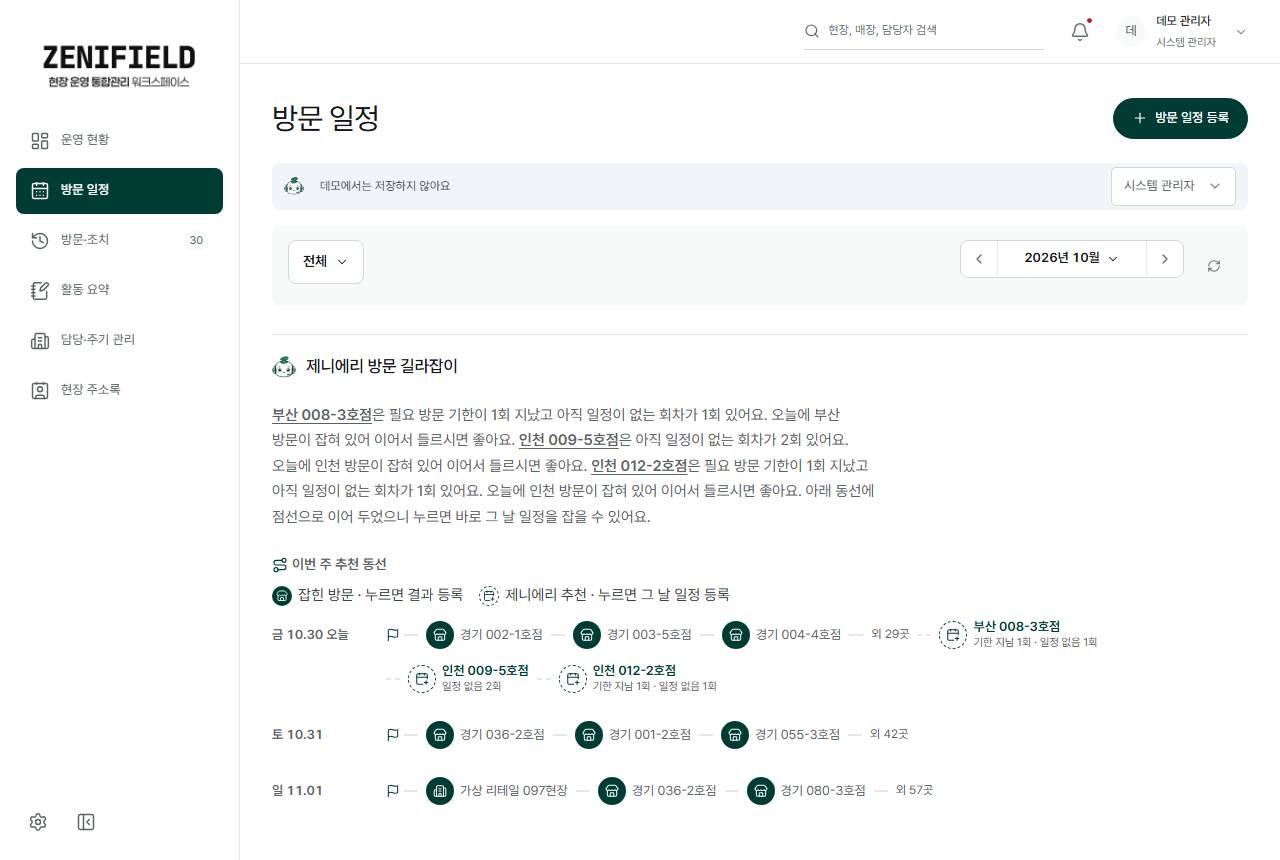
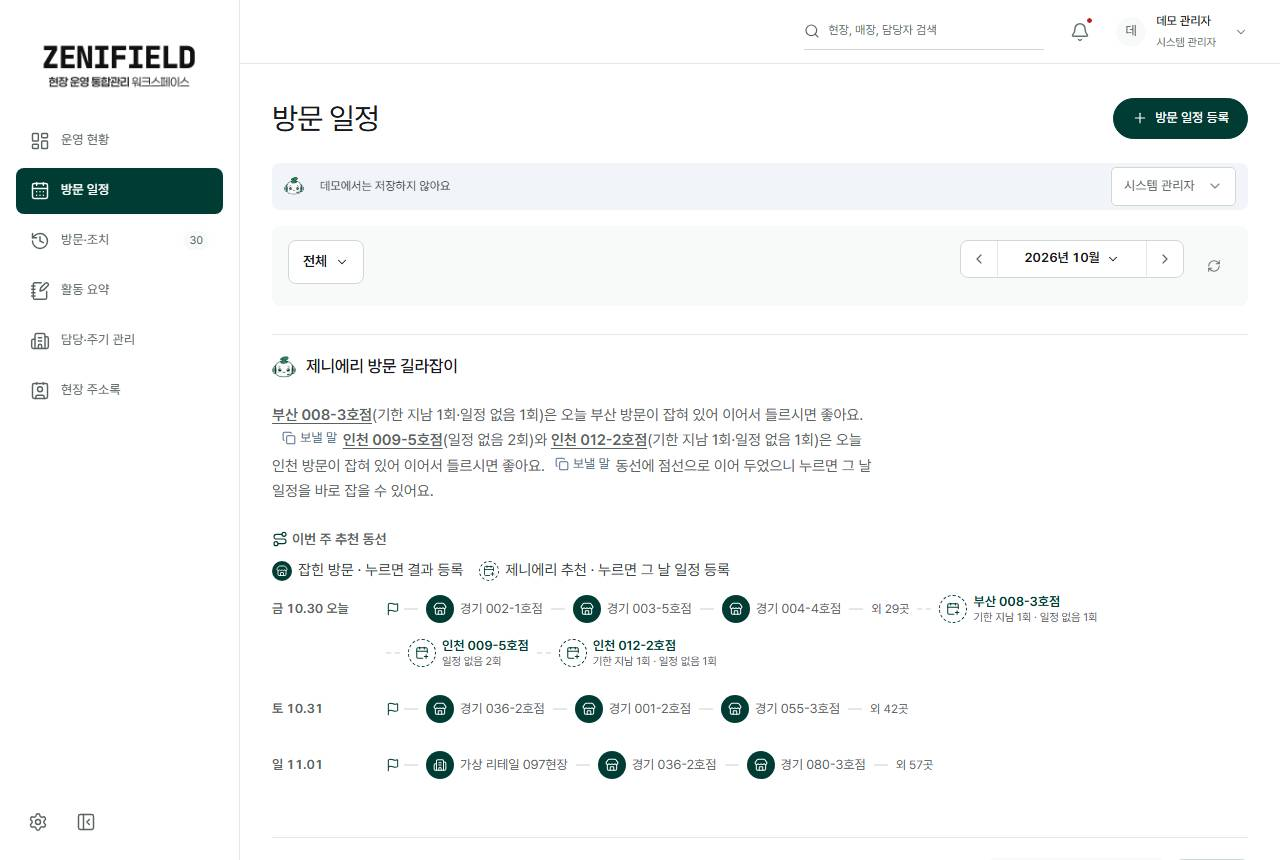
방문 길라잡이 추천 이유를 같은 날끼리 묶고, 담당자에게 보낼 말 복사 추가

diff --git a/app/platform/page-guide.tsx b/app/platform/page-guide.tsx
@@ -39,13 +39,15 @@ export function ScheduleGuide({c}:{c:Context}){
   const att=attentionOf(targetFacts(c.scope,c.visits,c.actions,c.allMetrics.slots,c.now).values()).filter(x=>!x.upcoming&&(x.delayed.length||x.unplanned.length)).slice(0,3);
   const add=att.map(x=>{const t=x.target,same=byDay.find(d=>t.region&&d.regions.has(t.region)),empty=byDay.find(d=>!d.stops.length),day=same||empty||byDay[0];
    const fact=[x.delayed.length&&`필요 방문 기한이 ${x.delayed.length}회 지났`,x.unplanned.length&&`아직 일정이 없는 회차가 ${x.unplanned.length}회 있`].filter(Boolean).join('고 ')+'어요',day0=day.d===c.now?'오늘':day.label;
-   const when=same?`${day0}에 ${t.region} 방문이 잡혀 있어 이어서 들르시면 좋아요`:empty?`${day0}${eul(day0)==='을'?'이':'가'} 비어 있어 넣기 좋아요`:`가장 가까운 ${day0}에 넣어 보시면 좋아요`;
-   return {x,t,day,fact,when,why:same?`${t.region} 방문과 함께`:empty?'빈 날':'가까운 날'}});
-  return {byDay:byDay.filter(d=>d.stops.length||add.some(a=>a.day.d===d.d)),add}},[c.visits,c.actions,c.scope,c.allMetrics,c.now]);
+   const when=same?`${day0==='오늘'?day0:day0+'에'} ${t.region} 방문이 잡혀 있어 이어서 들르시면 좋아요`:empty?`${day0}${eul(day0)==='을'?'이':'가'} 비어 있어 넣기 좋아요`:`가장 가까운 ${day0==='오늘'?'오늘':day0+'에'} 넣어 보시면 좋아요`;
+   const short=[x.delayed.length&&`기한 지남 ${x.delayed.length}회`,x.unplanned.length&&`일정 없음 ${x.unplanned.length}회`].filter(Boolean).join('·');
+   return {x,t,day,fact,short,when,why:same?`${t.region} 방문과 함께`:empty?'빈 날':'가까운 날'}});
+  const groups=[...add.reduce((m,a)=>m.set(a.when,[...(m.get(a.when)||[]),a]),new Map<string,typeof add>()).entries()];
+  return {byDay:byDay.filter(d=>d.stops.length||add.some(a=>a.day.d===d.d)),add,groups}},[c.visits,c.actions,c.scope,c.allMetrics,c.now]);
  return <section className="panel ai-brief action-brief route-guide" aria-label="제니에리 방문 길라잡이">
   <div className="panel-heading"><div><h2><AiMark/>제니에리 방문 길라잡이</h2></div></div>
   <div className="chart-body"><div className="ai-brief-out">
-   {g.add.length>0&&<p className="route-why">{g.add.map(({t,fact,when},i)=><Fragment key={t.id}>{i>0&&' '}<button type="button" className="zf-ent-link" onClick={()=>c.showTarget(t.id)}>{t.name}</button>{eul(t.name)==='을'?'은':'는'} {fact}. {when}.</Fragment>)} 아래 동선에 점선으로 이어 두었으니 누르면 바로 그 날 일정을 잡을 수 있어요.</p>}
+   {g.groups.length>0&&<p className="route-why">{g.groups.map(([when,items],gi)=>{const last=items[items.length-1].t.name,msg=items.map(({t,fact,day})=>{const o=t.managerIds[0];return (o?honor(c,o)+', ':'')+t.name+(eul(t.name)==='을'?'은 ':'는 ')+fact+'. '+(day.d===c.now?'오늘':day.label+'에')+' 일정을 넣어 주시면 좋아요.'}).join('\n');return <Fragment key={when}>{gi>0&&' '}{items.map(({t,short},i)=><Fragment key={t.id}>{i>0&&(i===items.length-1?'와 ':', ')}<button type="button" className="zf-ent-link" onClick={()=>c.showTarget(t.id)}>{t.name}</button>({short})</Fragment>)}{eul(last)==='을'?'은':'는'} {when}.{!self&&<CopyButton label={'담당자에게 보낼 말 복사: '+items.map(x=>x.t.name).join(', ')} text={msg} visible="보낼 말"/>}</Fragment>})} 동선에 점선으로 이어 두었으니 누르면 그 날 일정을 바로 잡을 수 있어요.</p>}
    <section><h3><Route size={16} aria-hidden/>이번 주 추천 동선</h3><p className="route-legend"><span><i aria-hidden><Store size={12}/></i>잡힌 방문 · 누르면 결과 등록</span><span><i className="add" aria-hidden><CalendarPlus size={12}/></i>제니에리 추천 · 누르면 그 날 일정 등록</span></p>
     {g.byDay.length?<ol className="route-map">{g.byDay.map(d=>{const adds=g.add.filter(a=>a.day.d===d.d);return <li key={d.d}><b>{d.label}</b><ol className="route-line"><li className="start" aria-hidden><Flag size={14}/></li>{d.stops.slice(0,3).map((st,i)=><li key={st.name}><button type="button" title={st.name+' 방문 결과 등록'} aria-label={d.label+' '+(i+1)+'번째 '+st.name+' 방문 결과 등록'} onClick={()=>c.open('visit',st.v,{result:true})}><i aria-hidden>{st.store?<Store size={14}/>:<Building2 size={14}/>}</i><span>{st.name}</span></button></li>)}{d.stops.length>3&&<li className="more"><span>외 {d.stops.length-3}곳</span></li>}{adds.map(({x,t,why})=>{const need=[x.delayed.length&&`기한 지남 ${x.delayed.length}회`,x.unplanned.length&&`일정 없음 ${x.unplanned.length}회`].filter(Boolean).join(' · ');return <li key={t.id} className="add"><button type="button" title={`${t.name} · ${need} · ${why}`} aria-label={`제니에리 추천 ${t.name}, ${need}, ${d.label} 일정 등록`} onClick={()=>c.open('visit',undefined,{targetType:t.type,siteId:t.siteId,storeId:t.storeId||undefined,date:d.d})}><i aria-hidden><CalendarPlus size={14}/></i><span>{t.name}<small>{need}</small></span></button></li>})}</ol></li>})}</ol>:<p>이번 주 달력에 남은 방문이 없어요. 방문 일정 등록에서 먼저 가 보면 좋은 곳을 보여 드릴게요.</p>}</section>
   </div></div>

diff --git a/app/platform/styles.css b/app/platform/styles.css
@@ -1038,3 +1038,4 @@
 .route-line>li.add::before{background:none;border-top:2px dashed var(--zf-border);height:0}
 .ai-brief-out p.route-legend{font-size:12px;line-height:1.5;max-width:none}
 .ai-brief-out p.route-why{margin:0 0 16px;font-size:15px;line-height:1.7;max-width:var(--zf-read-measure)}.route-why .zf-ent-link{white-space:normal;display:inline;font-weight:600}
+.route-why .copy-button{display:inline-flex;vertical-align:middle;margin-left:4px}

diff --git a/PROJECT_RULE.md b/PROJECT_RULE.md
@@ -45,7 +45,7 @@
 | DC-DESIGN-ZENIERI | AI 표시 = `AiMark`(`zenieri-chatbot.png`, 24/20/44px) 하나. 문장 = 제니에리 해요체 완결 문장·직함 호칭, 메모체·콜론 나열 금지(AI `briefPrompt`·규칙 `ruleBrief` 모두). 권한 안내는 거부 때만. 지침 9-B |
 | DC-DESIGN-BRIEF | 브리핑 = 제목 `제니에리가 정리해서 말씀드려요`·누구 이야기 → 무슨 일(한 문단) → 어디에 무엇이(요약+자세히 보기) → 이렇게 챙겨 보세요(보는 사람 관리 가이드·넘기는 지시 금지·복사) → 더 보기(이행 가이드+복사·전할 말·다음 주·근거·AI 고지). 칸 제목 14px·600+16px 아이콘, 상태 칩 하나+작성 중 가림막. 저장본 키 사용자·직급별·로그아웃 삭제. 지침 9-B |
 | DC-DESIGN-DASHBOARD | 모든 직급 같은 구성: H1 아래 기준 시각 → `ZeniCheer`(보는 범위 사실·자기 과거 비교·직함 호칭) → 브리핑 → 범위·탭 → 지표 4개 → 차트 한 쌍(조직 공백표 + 주별 이행률 꺾은선·축 하나) → 오늘·이번 주·안 끝난 조치 5줄+전체 보기. 누적 막대·이중 축·도넛·게이지·중복 차트·조직 순위 금지. 지침 6.1 |
-| DC-DESIGN-SCHEDULE | 방문 일정 맨 위 = 방문 길라잡이(이번 주 추천 동선 그림 하나: 잡힌 방문 채운 점 = 결과 등록, 제니에리 추천 점선 점 = 그 날 일정 등록, 별도 추천 목록 금지, 제목 아래 추천 이유 문단·여기도 넣어 보세요+넣기 좋은 날), 브리핑·`무슨 일` 문단 금지. 일정 등록 추천은 `briefPlaces`로 브리핑 연결(말풍선·꼬리표·맨 앞). 추천 정렬 칩 급한 순(attentionOf)·오래 못 간 순·지역별·밀린 조치(사실 정렬, 점수 금지). 브리핑 가이드 줄 버튼은 줄 끝(1023px 이하 문장 아래). 방문 일정 기본: 잡매니저 월간 / 파트장 이상 단위×요일 주간. 등록 = `VisitSuggest`(먼저 가 보면 좋은 곳 5곳: 왜·주기·마지막 방문·확인할 것·같은 날 함께, `attentionOf`→`staleStores`, 사전 확인사항 빈칸 채움) → 7일 빈 날 → `schedule.ts` 후보 5개. 사람이 고른 값 우선 |
+| DC-DESIGN-SCHEDULE | 방문 일정 맨 위 = 방문 길라잡이(이번 주 추천 동선 그림 하나: 잡힌 방문 채운 점 = 결과 등록, 제니에리 추천 점선 점 = 그 날 일정 등록, 별도 추천 목록 금지, 제목 아래 추천 이유 문단(같은 날끼리 묶음·보낼 말 복사)·여기도 넣어 보세요+넣기 좋은 날), 브리핑·`무슨 일` 문단 금지. 일정 등록 추천은 `briefPlaces`로 브리핑 연결(말풍선·꼬리표·맨 앞). 추천 정렬 칩 급한 순(attentionOf)·오래 못 간 순·지역별·밀린 조치(사실 정렬, 점수 금지). 브리핑 가이드 줄 버튼은 줄 끝(1023px 이하 문장 아래). 방문 일정 기본: 잡매니저 월간 / 파트장 이상 단위×요일 주간. 등록 = `VisitSuggest`(먼저 가 보면 좋은 곳 5곳: 왜·주기·마지막 방문·확인할 것·같은 날 함께, `attentionOf`→`staleStores`, 사전 확인사항 빈칸 채움) → 7일 빈 날 → `schedule.ts` 후보 5개. 사람이 고른 값 우선 |
 | DC-DESIGN-RECORDS | 방문 기록 = 표 위 탭 한 줄 단일 선택(전체·먼저 볼 보고·안 끝난 이슈·고객 요청·결과 안 쓴 방문), 기준 `judgment.ts` issueGuide(저장 판정만), 0건 숨김, 줄마다 걸린 이슈. 이슈 종류 묶음·판정 수준 묶음·다단계 필터 금지 |
 | DC-DESIGN-FORM | 입력 폼 = 한 열 기본(짧은 짝 칸만 2열), 라벨 위, 선택 칸 `(선택)` 표시. 금지: 안내 박스·준비 중 기능 안내·구역 번호·같은 안내 중복·선택 칸 접기. 새로 만들 때 진행 상태 칸 숨김, 수시 방문은 예정 시간·사전 확인사항 숨김. 혼자 남는 칸은 한 줄 전체. 갱신 2026-10-30 |
 | DC-DESIGN-PAGE-GUIDE | 방문 일정·방문 기록·후속 조치 맨 위 제니에리 정리(같은 틀: 무슨 일 문단 → 할 일 한 문장 + 3건). 줄 = [대상·내용(열기)] [바로 하기 작은 버튼: 일정 잡기·결과 쓰기] [받는 사람에게 보낼 말 복사 44px] 한 줄. 브리핑 `이렇게 챙겨 보세요`도 같은 바로 하기·복사, 문장 속 현장·매장 이름 링크. `page-guide.tsx`·`action-brief.tsx`. 갱신 2026-10-30 |

diff --git a/AGENTS.md b/AGENTS.md
@@ -75,7 +75,7 @@
 - 한 화면 한 번: 같은 숫자·목록을 두 곳에 두지 않음. 조직 표 순위 정렬 금지.
 
 **방문 일정**
-- 맨 위 `제니에리 방문 길라잡이`(브리핑 반복 금지): 이번 주 추천 동선 그림 하나(날마다 깃발→잡힌 방문 채운 점 3곳+외 n, 점 = 결과 등록, 이어서 제니에리 추천 점선 점 = 넣기 좋은 날 일정 등록, 범례 한 줄). 별도 추천 목록 없음. 제목 바로 아래 제니에리 문단이 곳마다 추천 이유(사실+넣기 좋은 날)를 말함 → 여기도 넣어 보세요 3곳(넣기 좋은 날 + `MM.DD에 잡기`·보낼 말).
+- 맨 위 `제니에리 방문 길라잡이`(브리핑 반복 금지): 이번 주 추천 동선 그림 하나(날마다 깃발→잡힌 방문 채운 점 3곳+외 n, 점 = 결과 등록, 이어서 제니에리 추천 점선 점 = 넣기 좋은 날 일정 등록, 범례 한 줄). 별도 추천 목록 없음. 제목 바로 아래 제니에리 문단이 추천 이유(사실+넣기 좋은 날)를 같은 날끼리 묶어 말하고, 파트장 이상은 문장마다 보낼 말 복사 → 여기도 넣어 보세요 3곳(넣기 좋은 날 + `MM.DD에 잡기`·보낼 말).
 - 일정 등록 추천: 제니에리 말풍선(브리핑에서 짚은 곳부터 + 이유), 그 곳은 꼬리표·맨 앞(`briefPlaces`).
 - 기본 보기: 잡매니저 월간 / 파트장 이상 하위 단위×요일 주간 달력.
 - 등록(AI 기본·`직접 입력` 전환): 추천 위 정렬 칩(급한 순·오래 못 간 순·지역별·밀린 조치). 대상 고르기 전 `제니에리가 먼저 가 보면 좋은 곳을 골랐어요` 최대 5곳(왜·주기·마지막 방문·확인할 것·같은 날 함께) → 앞 7일 빈 날 칩 → 대상 정하면 사실 한 줄+후보 날짜 5개(`schedule.ts`). 사람이 고른 값 우선, AI 초안은 빈칸만.
